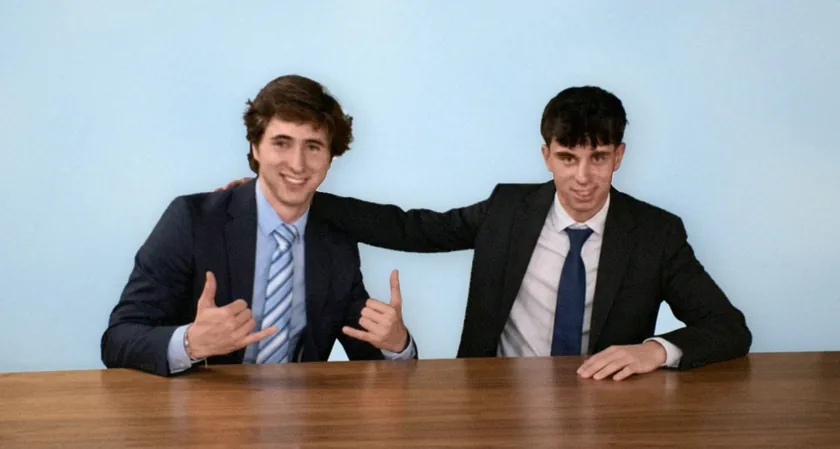
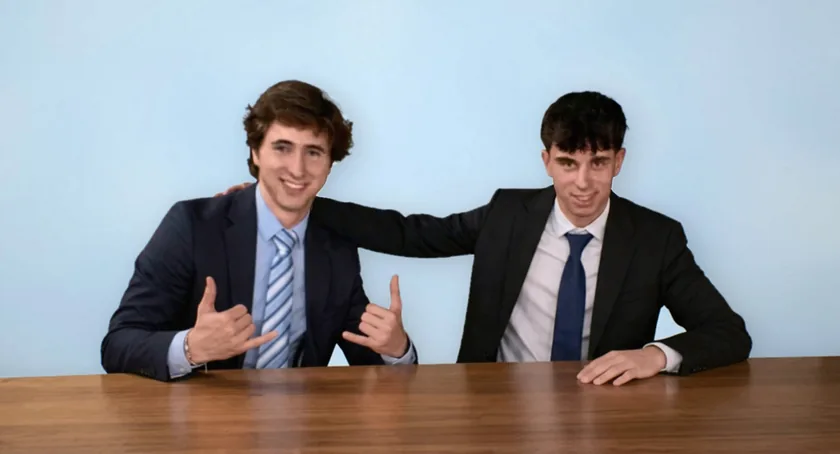
Give every press appearance its picture, and fix the Instituto's name
All three outlets have a card on hover and on keyboard focus now. The
Instituto's is the interview itself, cropped to 16:9. esRadio has no
photograph, only a mark, so that one is fitted inside the frame on white
rather than cropped to fill it on grey - a logo file carries its own
white ground, and on grey that ground shows as a box around it. The mark
is trimmed to its ink first, or it arrives as a wordmark adrift in the
middle of its own margins.

The card is also no longer in the document until it is first asked for.
Centred on its link, the one beside the first or the last outlet hung
off the side of the page, and a hidden box still counts towards how wide
the document is - at 360px that was six pixels of real horizontal scroll
caused by decoration nobody had asked to see. It now mounts on demand
and, when it would still hang over an edge, measures by how much and
pulls itself back by exactly that, so it stays as near its link as the
page allows.

And the Instituto is the **Instituto de Emprendimiento Avanzado**, not
"de Empresa Avanzado". The backdrop in the photograph they sent says so
in three places.

The founders' photograph on /contacto is the better exposure they sent,
same crop.

Verified: all three cards rendered and looked at; the device audit over
6 routes at 9 sizes is clean again, including 360px; tsc and eslint
clean; the full suite is green.

Claude-Session: https://claude.ai/code/session_018wBeAekrWct3bfUgnCTmgZ

diff --git a/src/components/sections/PressLine.tsx b/src/components/sections/PressLine.tsx
@@ -1,7 +1,8 @@
-import { useId, useState } from "react";
+import { useId, useRef, useState } from "react";
 import { useLanguage } from "@/contexts/LanguageContext";
 import { Photo } from "@/components/Photo";
 import { hasPhoto } from "@/lib/photos";
+import { cn } from "@/lib/utils";
 
 /**
  * Coverage reduced to one sentence (redesign, 05/11/2026). The outlet names
@@ -23,24 +24,77 @@ type Outlet = {
   photo?: string;
   /** Whose photograph it is and who took it, shown under the picture. */
   creditKey?: string;
+  /** A mark is fitted inside the frame; a photograph fills it. */
+  mark?: boolean;
 };
 
 const OUTLETS: Record<"esRadio" | "madridNorte" | "instituto", Outlet> = {
-  esRadio: { name: "esRadio", href: "https://open.spotify.com/episode/18D90WvJn5pAct1zdtcEHf" },
+  esRadio: {
+    name: "esRadio",
+    href: "https://open.spotify.com/episode/18D90WvJn5pAct1zdtcEHf",
+    photo: "esradio",
+    creditKey: "press.creditEsRadio",
+    mark: true,
+  },
   madridNorte: {
     name: "Madrid Norte 24 horas",
     href: "https://www.madridnorte24horas.com/articulo/tendencias/simplia-startup-espanola-que-impulsa-agentes-telefonicos-inteligencia-artificial-empresas/20260621100037129472.html",
     photo: "madridnorte24h",
     creditKey: "press.creditMN24",
   },
-  instituto: { name: "Instituto de Empresa Avanzado", href: "https://ieavanzado.com/martes-del-emprendimiento/" },
+  instituto: {
+    name: "Instituto de Emprendimiento Avanzado",
+    href: "https://ieavanzado.com/martes-del-emprendimiento/",
+    photo: "ieavanzado",
+    creditKey: "press.creditIEA",
+  },
 };
+
+/** Kept clear of the page's edges when the card is pulled back inside. */
+const EDGE_PAD = 12;
 
 function PressLink({ outlet }: { outlet: Outlet }) {
   const { t } = useLanguage();
   const [showing, setShowing] = useState(false);
+  // Not in the document until it is first asked for. Centred on its link it
+  // can hang off the side of the page, and a hidden box still counts towards
+  // how wide the document is - which on a narrow screen is real horizontal
+  // scroll caused by decoration nobody has asked to see. Once it has been
+  // shown it stays, carrying the offset that put it inside.
+  const [mounted, setMounted] = useState(false);
+  const [nudge, setNudge] = useState(0);
+  const cardRef = useRef<HTMLSpanElement | null>(null);
   const id = useId();
   const picture = outlet.photo && hasPhoto(outlet.photo) ? outlet.photo : undefined;
+
+  /**
+   * Centred on its link, a card beside the first or the last outlet hangs off
+   * the side of the page - which on a narrow screen is real horizontal
+   * scroll, even though the card is only decoration. This measures how far
+   * over the edge it would go and pulls it back by exactly that much, so it
+   * still sits as close to its link as the page allows.
+   */
+  const place = () => {
+    const card = cardRef.current;
+    if (!card) return;
+    const previous = card.style.transform;
+    card.style.transform = "translate(-50%, 0)";
+    const box = card.getBoundingClientRect();
+    card.style.transform = previous;
+    const page = document.documentElement.clientWidth;
+    const over = Math.max(0, box.right - (page - EDGE_PAD));
+    const under = Math.max(0, EDGE_PAD - box.left);
+    setNudge(Math.round(under - over));
+  };
+
+  const show = () => {
+    setMounted(true);
+    // One frame for it to exist, then measure it and bring it in.
+    requestAnimationFrame(() => {
+      place();
+      setShowing(true);
+    });
+  };
 
   const anchor = (
     <a
@@ -50,8 +104,8 @@ function PressLink({ outlet }: { outlet: Outlet }) {
       className="text-link underline underline-offset-2 hover:decoration-2"
       data-umami-event="prensa"
       data-umami-event-medio={outlet.name}
-      aria-describedby={picture && showing ? id : undefined}
-      onFocus={() => setShowing(true)}
+      aria-describedby={picture && mounted && showing ? id : undefined}
+      onFocus={show}
       onBlur={() => setShowing(false)}
     >
       {outlet.name}
@@ -64,27 +118,41 @@ function PressLink({ outlet }: { outlet: Outlet }) {
   return (
     <span
       className="relative inline-block"
-      onPointerEnter={(event) => event.pointerType === "mouse" && setShowing(true)}
+      onPointerEnter={(event) => event.pointerType === "mouse" && show()}
       onPointerLeave={() => setShowing(false)}
     >
       {anchor}
-      {/* Above the link and centred on it, clipped to the page by max-width
-          at the small end. aria-hidden while closed so the caption is not
-          read out of nowhere; pointer-events none so it can never sit
-          between the reader and the link they are aiming for. */}
+      {mounted && (
+      <>
+      {/* Above the link and centred on it, pulled back inside the page when
+          that would hang it off the edge. aria-hidden while closed so the
+          caption is not read out of nowhere; pointer-events none so it can
+          never sit between the reader and the link they are aiming for. */}
       <span
+        ref={cardRef}
         id={id}
         role="group"
         aria-hidden={!showing}
         className="pointer-events-none absolute bottom-[calc(100%+12px)] left-1/2 z-30 w-[min(19rem,70vw)] -translate-x-1/2 overflow-hidden rounded-[14px] border border-border bg-card shadow-[0_18px_40px_-24px_hsl(220_20%_6%/0.45)] transition-[opacity,transform] duration-150 ease-out motion-reduce:transition-none"
         style={{
           opacity: showing ? 1 : 0,
-          transform: `translate(-50%, ${showing ? "0" : "6px"})`,
+          transform: `translate(calc(-50% + ${nudge}px), ${showing ? "0" : "6px"})`,
           visibility: showing ? "visible" : "hidden",
         }}
       >
-        <span className="block aspect-[16/9] bg-secondary">
-          <Photo name={picture} alt={t(outlet.creditKey ?? "press.photoAlt")} width={1440} height={810} />
+        {/* A mark is fitted inside the frame with air around it; cropped to
+            fill, a logo loses its own margins and usually a letter too. And
+            it sits on white, not on the soft grey a photograph sits on: a
+            logo file carries its own white ground, and on grey that ground
+            shows as a box around it. */}
+        <span className={cn("block aspect-[16/9]", outlet.mark ? "grid place-items-center bg-card px-7 py-5" : "bg-secondary")}>
+          <Photo
+            name={picture}
+            alt={t(outlet.creditKey ?? "press.photoAlt")}
+            width={outlet.mark ? 900 : 1440}
+            height={outlet.mark ? 304 : 810}
+            className={outlet.mark ? "h-auto max-h-full w-full object-contain" : undefined}
+          />
         </span>
         {outlet.creditKey && (
           <span className="block px-3.5 py-2.5 text-[13px] leading-snug text-muted-foreground">
@@ -92,6 +160,8 @@ function PressLink({ outlet }: { outlet: Outlet }) {
           </span>
         )}
       </span>
+      </>
+      )}
     </span>
   );
 }

diff --git a/src/contexts/LanguageContext.tsx b/src/contexts/LanguageContext.tsx
@@ -72,6 +72,8 @@ const translations: Record<Language, Record<string, string>> = {
     'press.line': 'Nos han entrevistado en',
     'press.and': 'y el',
     'press.creditMN24': 'Roberto Zúñiga en Onda Cero Madrid Norte. Foto: Madrid Norte 24 horas.',
+    'press.creditEsRadio': 'La entrevista completa, en el pódcast de esRadio.',
+    'press.creditIEA': 'Roberto Zúñiga en los Martes del Emprendimiento del Instituto de Emprendimiento Avanzado.',
     'press.photoAlt': 'Entrevista en el estudio de radio',
     'press.caption': 'Onda Cero Madrid Norte · junio 2026',
     // Titular literal de Madrid Norte 24 horas: es una cita, no copy nuestro, así que va en español en los dos idiomas.
@@ -90,7 +92,6 @@ const translations: Record<Language, Record<string, string>> = {
     // entre la hora y el resto los pone el componente, no la traducción.
     'hero.time': '20:53',
     'hero.title': 'Marta pregunta por un despacho para 8. Tu centro abre mañana a las 9:00.',
-    'hero.subtitle': 'Para entonces habrá escrito a otros tres centros. Simplia le contesta esta noche por tu WhatsApp y le agenda la visita.',
     'hero.demoCta': 'Pruébalo con tu web',
     'hero.demoNote': 'Gratis, 1 minuto',
     'hero.trustLine': 'Para coworkings, centros de negocio y oficinas flexibles de 1 a 15 sedes · Precio a medida para tu centro',
@@ -113,11 +114,9 @@ const translations: Record<Language, Record<string, string>> = {
     'example.noAnswer': 'Sin respuesta',
     'example.typing': 'El agente está escribiendo',
     'example.replay': 'Volver a reproducir',
-    'example.footnote': 'Conversación de ejemplo.',
 
     // La misma pregunta, contestada
     'answer.title': 'La misma pregunta, con Simplia.',
-    'answer.videoCaption': 'Una consulta de noche: el agente contesta en segundos, la visita entra en la agenda del equipo y llega el recordatorio con la ubicación.',
     'answer.tryIt': 'Pruébalo tú: escribe al agente como si fueras un cliente.',
 
     // Qué hace el agente
@@ -217,7 +216,7 @@ const translations: Record<Language, Record<string, string>> = {
     'case.stat4Value': '27',
     'case.stat4Label': 'personas dejaron sus datos de contacto',
     'case.who': 'Operador de espacios flexibles con varias sedes en Madrid. Octubre de 2026, su primer mes completo con el agente.',
-    'case.statsNote': '"Fuera del horario de oficina" es fuera de lunes a viernes, de 9:00 a 19:00. Las cifras salen de su propio panel.',
+    'case.statsNote': '"Fuera del horario de oficina" es fuera de lunes a viernes, de 9:00 a 19:00.',
     'case.quote': '"La automatización de los procesos nos está haciendo mucho más productivos"',
     'case.quoteSource': 'Roberto, fundador de Oficinas YA!',
 
@@ -524,6 +523,8 @@ const translations: Record<Language, Record<string, string>> = {
     'press.line': 'We have been interviewed on',
     'press.and': 'and at the',
     'press.creditMN24': 'Roberto Zúñiga on Onda Cero Madrid Norte. Photo: Madrid Norte 24 horas.',
+    'press.creditEsRadio': 'The full interview, on the esRadio podcast.',
+    'press.creditIEA': 'Roberto Zúñiga at the Instituto de Emprendimiento Avanzado.',
     'press.photoAlt': 'Interview in the radio studio',
     'press.caption': 'Onda Cero Madrid Norte · June 2026',
     'press.quote': 'Simplia, la startup española que impulsa agentes telefónicos con inteligencia artificial para empresas',
@@ -540,7 +541,6 @@ const translations: Record<Language, Record<string, string>> = {
     // Home · hero
     'hero.time': '20:53',
     'hero.title': 'Marta asks about an office for 8. Your centre opens tomorrow at 9:00.',
-    'hero.subtitle': 'By then she will have written to three other centres. Simplia answers her tonight on your WhatsApp and books the visit.',
     'hero.demoCta': 'Try it with your website',
     'hero.demoNote': 'Free, 1 minute',
     'hero.trustLine': 'For coworkings, business centres and flexible offices with 1 to 15 locations · Pricing tailored to your centre',
@@ -562,11 +562,9 @@ const translations: Record<Language, Record<string, string>> = {
     'example.noAnswer': 'No reply',
     'example.typing': 'The agent is typing',
     'example.replay': 'Play again',
-    'example.footnote': 'Example conversation.',
 
     // The same question, answered
     'answer.title': 'The same question, with Simplia.',
-    'answer.videoCaption': 'An enquiry at night: the agent answers in seconds, the visit goes into the team\'s calendar and the reminder arrives with the location.',
     'answer.tryIt': 'Try it yourself: write to the agent as if you were a customer.',
 
     // What the agent does
@@ -662,7 +660,7 @@ const translations: Record<Language, Record<string, string>> = {
     'case.stat4Value': '27',
     'case.stat4Label': 'people left their contact details',
     'case.who': 'A flexible-space operator with several locations in Madrid. October 2026, their first full month with the agent.',
-    'case.statsNote': '"Outside office hours" means outside Monday to Friday, 9:00 to 19:00. The figures come from their own dashboard.',
+    'case.statsNote': '"Outside office hours" means outside Monday to Friday, 9:00 to 19:00.',
     'case.quote': '"Automating the processes is making us much more productive"',
     'case.quoteSource': 'Roberto, founder of Oficinas YA!',
 
